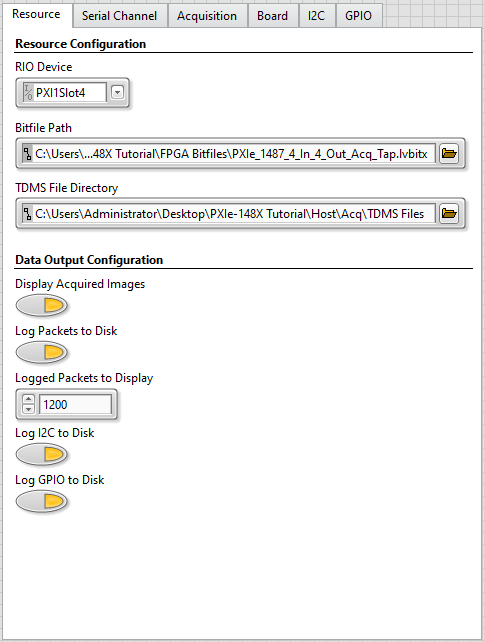
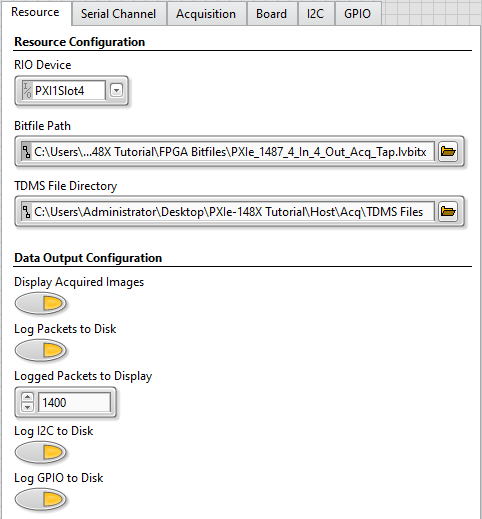
Add tap gse basic tutorial doc (#29)
* Fix type-o in help docs

* Re-order final two steps of tutorial and fix type-o

* Add new tap basic tutorial images

* Add new tap basic tutorial doc

* Add link to new tap basic tutorial doc

* Add blank line before section headings

* Update images for tap basic tutorial to match settings and new defaults

* Final tap basic tutorial updates after self review

* Update gse-tap-basic.md

Update wording based on PR feedback.

Changed region(s): [[0.0, 0.0, 1.0, 1.0]]

diff --git a/docs/tutorials/gettingstartedexample/gse-tap-basic.md b/docs/tutorials/gettingstartedexample/gse-tap-basic.md
@@ -1,0 +1,231 @@
+# PXIe-148X Getting Started Example - Basic Tap Tutorial
+{: .no_toc }
+
+This tutorial will teach you the steps needed to configure a tap acquisition using two PXIe-148X modules with a Leopard Imaging IMX490 camera and familiarize you with the basic functionality provided by the Tap Getting Started Example. A tap acquisition is defined as an acquisition with a CSI-2 sensor where data is forwarded from a serial input channel to a paired serial output channel while also logging acquired data and timestamps to disk. In addition, the Tap Getting Started Example bridges the I2C communication between the paired serial input and serial output channels. 
+
+> Note: This document references the example included with the NI-FlexRIO 23Q1 driver. Examples included in newer releases of the driver should be applicable.
+
+### Table of contents
+{: .no_toc }
+
+1. TOC
+{:toc}
+
+---
+
+## Prerequisites
+
+Review and complete all setup from the [PXIe-1486 Getting Started Guide](https://www.ni.com/docs/en-US/bundle/pxie-1486-getting-started/) or [PXIe-1487 Getting Started Guide](https://www.ni.com/docs/en-US/bundle/pxie-1487-getting-started/).
+
+Basic knowledge of LabVIEW and LabVIEW FPGA concepts. 
+
+A camera supported by the getting started example configuration scripts (i.e. Leopard Imaging IMX490).
+
+A supported interface module that includes both serial input and serial output channels (tap module) and a second supported interface module that includes serial input channels (acq module) on a PXI system running Windows.
+
+| **Interface Module**   | **Camera**                                                                                                                                                 |
+|------------------------|------------------------------------------------------------------------------------------------------------------------------------------------------------|
+| PXIe-1486 (8 In - 954 Deserializer)         | [LI-IMX490-FPDLINKIII](https://www.leopardimaging.com/product-category/autonomous-camera/ti-fpdlinkiii-cameras/li-imx490-fpdlinkiii/) |
+| PXIe-1486 (4 In 4 Out - 953/954 SerDes)     | [LI-IMX490-FPDLINKIII](https://www.leopardimaging.com/product-category/autonomous-camera/ti-fpdlinkiii-cameras/li-imx490-fpdlinkiii/) |
+| PXIe-1487 (8 I - 9296A Deserializer)        | [LI-IMX490-GMSL2](https://www.leopardimaging.com/product-category/autonomous-camera/maxim-gmsl2-cameras/li-imx490-gmsl2/)             |
+| PXIe-1487 (4 In 4 Out - 9295A/9296A SerDes) | [LI-IMX490-GMSL2](https://www.leopardimaging.com/product-category/autonomous-camera/maxim-gmsl2-cameras/li-imx490-gmsl2/)             |
+
+> Note: The tap and acq modules used in this tutorial must have matching model numbers (i.e. 1486).
+
+## Initial Hardware Setup
+
+1.  First complete installation of hardware as described in the Getting Started Guide linked above.
+2.  Connect the camera to serial input channel 0 (SI0) on the tap module with a FAKRA cable.
+3.  Connect serial output channel (SO0) on the tap module to serial input channel (SI0) on the acq module with a FAKRA cable.
+4.  Connect the SI0 pin to the SO0 pin on the AUX POWER connector on the front panel of the tap module.
+
+## Initial Software Setup
+
+1.  First complete installation of software specified in the Getting Started Guide linked above.
+2.  Use the NI Example Finder to create a default project for your specific tap module.
+    - Open LabVIEW and click **Help -> Find Examples...**
+    
+    ![Open NI Example Finder](../../images/LabVIEW-Help-FindExamples.png)
+    
+    - In the NI Example Finder dialog, double-click **Hardware Input and Output -> FlexRIO -> Integrated IO -> Getting Started -> Getting Started FlexRIO Integrated IO.vi**
+    
+    ![NI Example Finder](../../images/NIExampleFinder-GSEFlexRIOWithIntegratedIO.png)
+
+    - In the FlexRIO with Integrated IO Project Creator dialog set the **Project Name** to <font face = "courier new">PXIe-148X Tutorial</font> and make the **FlexRIO Integrated IO** selection for the desired PXIe-148X interface module then click **OK**.
+    
+    ![FlexRIO with Integrated IO Project Creator](../../images/FlexRIOWithIntegratedIOProjectCreator-PXIe-148XTutorial.png)
+
+3.  Double click the Tap Example VI in the LabVIEW project.
+
+    ![Open Tap Example VI](../../images/PXIe-148X-TapGSE-Project.png)
+
+    > The opened front panel of the Getting Started Example is similar to the figure below.
+
+    ![Tap GSE Front Panel](../../images/PXIe-148X-TapGSE-FrontPanel.png)
+
+4. Open an Acquisition Example VI (see [Basic Acquisition Tutorials - Initial Software Setup](./gse-acq-basic.md#initial-software-setup)).
+    > Note: If the acq module is the same module type as the tap module, there is no need to create a new project. If the acq module is not the same module type as the tap module, a new project needs to be created for the acq module in order for the acq module FPGA bitfiles to be included in the project.
+
+## Performing a Simple Continuous Tap Acquisition
+
+> Note: For the purposes of this tutorial, all steps reference the Tap Example VI unless otherwise specified and all input control values not specified should be left as the default value.
+
+1.  Select the **Resource** tab and make the following modifications.
+    - Select the **RIO Device** from the dropdown menu that corresponds to your tap module.
+    - Set the **Bitfile Path** to the bitfile that corresponds to your tap module. The default shipping bitfile is in the 'FPGA Bitfiles' subfolder located in the project folder (created at the Project Root location specified in Project Creator):
+
+    | **Interface Module**   | **Bitfile**                                          |
+    |------------------------|------------------------------------------------------|
+    | PXIe-1486 (4 In 4 Out) | FPGA Bitfiles\\PXIe_1486_4\_In_4\_Out_Acq_Tap.lvbitx |
+    | PXIe-1487 (4 In 4 Out) | FPGA Bitfiles\\PXIe_1487_4\_In_4\_Out_Acq_Tap.lvbitx |
+
+    > The values on the **Resource** tab of **Configuration Settings** are now similar to the figure below.
+
+    ![Configuration Settings Resource Tab](../../images/PXIe-148X-AcqGSE-ResourceTab-BasicContinuous.png)
+
+2.  Select the **Serial Channel** tab and make the following modifications.
+    - Select the **Deserializer (Input) Configuration Script** and **Serializer (Output) Configuration Script** that correspond to your interface module. The tap scripts are used to configure the deserializer and the serializer on the interface module to establish the I2C communication bridge between input and output channel pairs. See the [PXIe-148X Configuration Scripts User Guide](../../reference/gettingstartedexample/config-scripts-user-guide.md) for more details. The configuration scripts required for this tutorial are in the project folder under the subfolder 'Host\\Scripts':
+
+        | **Interface Module**                         | **Deserializer (Input) Configuration Script**         |
+        |----------------------------------------------|-------------------------------------------------------|
+        | PXIe-1486 (4 In 4 Out - 953/954 SerDes)      | Host\\Scripts\\DS90UB954\\Tap\\Des_Tap.py             |
+        | PXIe-1487 (4 In 4 Out - 9295A/9296A SerDes)  | Host\\Scripts\\MAX9296A\\Tap\\RAW12_ID01_Des_Tap.cpp  |
+        | PXIe-1487 (4 In 4 Out - 96717/96716A SerDes) | Host\\Scripts\\MAX96716A\\Tap\\RAW12_ID12_Des_Tap.cpp |
+        | PXIe-1488 (4 In 4 Out - 971/9702 SerDes)     | Host\\Scripts\\DS90UB9702\\Tap\\Des_Tap.py            |
+
+        | **Interface Module**                         | **Serializer (Output) Configuration Script**        |
+        |----------------------------------------------|-----------------------------------------------------|
+        | PXIe-1486 (4 In 4 Out - 953/954 SerDes)      | Host\\Scripts\\DS90UB953\\Tap\\Ser_Tap.py           |
+        | PXIe-1487 (4 In 4 Out - 9295A/9296A SerDes)  | Host\\Scripts\\MAX9295A\\Tap\\RAW12_ID1_Ser_Tap.cpp |
+        | PXIe-1487 (4 In 4 Out - 96717/96716A SerDes) | Host\\Scripts\\MAX96717\\Tap\\RAW12_ID2_Ser_Tap.cpp |
+        | PXIe-1488 (4 In 4 Out - 971/9702 SerDes)     | Host\\Scripts\\DS90UB971\\Tap\\Ser_Tap.py           |
+
+    > The values on the **Serial Channel** tab of **Configuration Settings** are now similar to the figure below.
+
+    ![Configuration Settings Serial Channel Tab](../../images/PXIe-148X-TapGSE-SerialChannelTab-BasicContinuous.png)
+
+3.  Select the **Board** tab and make the following modifications.
+    - In the **Power Over Coax Source** drop down menu, select **Auxiliary** to power the attached camera from the AUX POWER connector.
+    - In the **Power Over Coax Sink** drop down menu, select **Auxiliary** to route received power over coax to the AUX POWER connector.
+
+    > The values on the **Board** tab of **Configuration Settings** are now similar to the figure below.
+
+    ![Configuration Settings Board Tab](../../images/PXIe-148X-TapGSE-BoardTab-BasicContinuous.png)
+
+4.  Run the VI to setup the tap configuration. 
+
+    The Tap example loads the bitfile and applies the configuration settings, including execution of the deserializer and serializer configuration scripts. The **Waiting for Sensor Setup** indicator illuminates to indicate the configuration scripts have completed and the I2C communication bridge is established between serial input and serial output channel pairs.
+
+5.  Click the **Sensor Setup Complete** control button to start a continuous tap acquisition. 
+    
+    The **Acquisition In Progress** indicator illuminates to indicate that the tap acquisition is running, but no data is received at this point since the camera configuration is performed from the Acquisition Example VI.
+
+6. On the Acquisition Example VI, run the [Performing a Simple Continuous Acquisition](./gse-acq-basic.md#performing-a-simple-continuous-acquisition) tutorial using the acq module, but do not run the final step that stops the acquisition.
+
+7.  Update the **Red Gain**, **Green Gain**, and **Blue Gain** display parameters on the **Serial Channel** tab -> **Channel Configurations** control to match any changes that were made on the Acquisition Example VI.
+
+    ![Channel Configurations Control](../../images/PXIe-148X-AcqGSE-ChannelConfig-BasicContinuous.png)
+
+    > Note: Changes made to the **RAW Display Parameters** will take effect while the VI is running.
+
+8.  While the Tap Example and Acquisition Example VIs are running, select the **First Display Channel** tab on the Tap Example and on the Acquisition Example and verify that images from the camera are displayed on these tabs. The images should look identical.
+
+    ![Compare First Display Channel Tabs](../../images/PXIe-148x-Tap-Acq-display-compare.png)
+
+9.  Click the **Stop Acquisition** button on both Example VIs to stop the tap acquisition and stop the VIs.
+
+## Performing a Finite Tap Acquisition with Data Logging
+
+> Note: The Finite Tap Acquisition with Data Logging tutorial assumes that all input parameters are still configured as specified in the Simple Continuous Tap Acquisition tutorial for both the Tap and Acquisition Example VIs. All steps reference the Tap Example VI unless otherwise specified
+
+1.  Select the **Resource** tab and make the following modifications.
+    - Enable **Log Packets to Disk**.
+    - Enable **Log I2C to Disk**.
+    - Enable **Log GPIO to Disk**.
+
+    > Note: During the first run of the VI in the Simple Continuous Tap Acquisition tutorial, the **TDMS File Directory** control was automatically populated with a value pointing to a subfolder (\"TDMS Files\"). This subfolder was automatically created within the project folder to store any generated TDMS files.
+
+    > The values on the **Resource** tab of **Configuration Settings** are now similar to the figure below.
+    
+    ![Configuration Settings Resource Tab Log to Disk](../../images/PXIe-148X-Tap-ResourceTab-LogToDisk.png)
+
+2.  Select the **Acquisition** tab and disable **Continuous Acquisition**.
+
+    > The values on the **Acquisition** tab of **Configuration Settings** are now similar to the figure below.
+
+    ![Configuration Settings Acquisition Tab Finite](../../images/PXIe-148X-Acq-AquisitionTab-FiniteAcq.png)
+
+3.  Select the **I2C** tab and add **User24** to the **timestamp filter** array to enable I2C timestamp logging on the SI0 channel.
+
+    > The values on the **I2C** tab of **Configuration Settings** are now similar to the figure below.
+
+    ![Configuration Settings I2C Tab with User24](../../images/PXIe-148X-Acq-I2CTab-FiniteAcq.png)
+
+4.  Select the **GPIO** tab and make the following modifications.
+    - Add a GPIO line to the **GPIO to Display** array with the GPIO Bank value set to **Des0 GPIO** and the GPIO Number set to <font face = "courier new">0</font>. Setting these values enables display of GPIO traffic for the GPIO 0 line on the SI0 channel connected to the camera.
+
+    > The values on the **GPIO** tab of **Configuration Settings** are now similar to the figure below.
+
+    ![Configuration Settings GPIO Tab with Des0 GPIO0](../../images/PXIe-148X-Acq-GPIOTab-DisplayDes0GPIO0.png)
+
+5.  Run the VI to setup the tap configuration and wait for the **Waiting for Sensor Setup** indicator to illuminate.
+6.  Run the Acquisition Example VI and wait for the **Acquisition In Progress** indicator to illuminate on the Acquisition Example VI.
+
+7.  Click the **Sensor Setup Complete** control button to start the tap acquisition and wait for the acquisition to complete. The default acquisition duration of 1 second is run and results are displayed on the various tabs in the **Data Output** indicator.
+
+    > Packet Data is displayed in the **First Serial Channel Packets** tab.
+    - The **Bytes Acquired (1st Channel)** indicator updates as the acquisition is occurring.
+    - The **Packets Logged (1st Channel)** indicator updates after acquisition completes.
+    > See [PXIe-148X Tap GSE Help](../../reference/gettingstartedexample/gse-tap-help.md#table-of-descriptions-for-acquired-packets-columns) for **Acquired Packets (1st Channel)** column details.
+
+    ![First Serial Channel Packets Tab](../../images/PXIe-148X-Acq-FirstSerialChannelPackets-FiniteAcq.png)
+
+    > I2C timestamp data is displayed in the **I2C Timestamps** tab.
+
+    ![I2C Timestamps Tab](../../images/PXIe-148X-Acq-I2CTimestamps-FiniteAcq.png)
+
+8.  GPIO timestamp data is plotted in the **GPIO Timestamps** tab.
+
+    ![GPIO Timestamps](../../images/PXIe-148X-Acq-GPIOTimestamps-FiniteAcq.png)
+
+    > Note: The camera does not toggle GPIOs by default. The change shown in the figure above reflects GPIO level reset when the example VI is first run.
+
+## Reviewing Previously Logged Data
+
+> Note: The Reviewing Previously Logged Data tutorial assumes that the previous tutorials in this document were completed first.
+
+TDMS files containing acquired data from the camera were saved to the \"TDMS Files\" subfolder in the previous tutorial. The GPIO timestamps, user timestamps, and data acquired from the camera are stored in individual TDMS files. You can use the file viewer utility to review the acquired packet data.
+
+![TDMS Files](../../images/PXIe-148X-Acq-TDMSFileList.png)
+
+1.  Double click the TDMS File Viewer VI in the LabVIEW project.
+  
+    ![Open TDMS File Viewer VI](../../images/PXIe-148X-GSE-TDMSFileViewer.png)
+
+    > The opened front panel of the File Viewer will be similar to the figure below.
+
+    ![TDMS File Viewer VI Front Panel](../../images/PXIe-148X-GSE-TDMSFileViewer-FrontPanel.png)
+
+2.  Select the correct location for the **TDMS File Directory** control. By default, TDMS files in the previous tutorial were saved to `<yourprojectdir>\Host\Tap\TDMS Files`.
+
+    > Note: The directory browse window will not show the TDMS files located in the "TDMS Files" directory.
+
+3.  Run the VI to load the TDMS file and view the packet data.
+
+    ![TDMS File Viewer VI Front Panel With Data](../../images/PXIe-148X-GSE-TDMSFileViewer-FrontPanelWithData.png)
+
+    > Note: The **Update TDMS File Packet Offset Data** control is enabled by default. Enabling this option results in re-saving a TDMS file with additional packet indexing information the first time the TDMS file is loaded. This indexing information can reduce the future load time of the file, particularly when reading only a subset of the packet data.
+
+4. (Optional) Update the **Packet Display Start Index** and **Packets to Display** controls to review a specific packet range of interest from the TDMS file and rerun the VI. 
+    > Using an LI-IMX490-GMSL2 camera with a vertical resolution of 1280, each frame contains a Frame Start packet followed by 1280 RAW 12 packets and a Frame End packet. To display 10 frames of data starting at the second frame, set **Packet Display Start Index** to <font face = "courier new">1282</font> and **Packets to Display** to <font face = "courier new">12820</font>.
+
+    > Note: Setting **Packets to Display** to <font face = "courier new">-1</font> displays packets from **Packet Display Start Index** to the end of the file.
+
+## Related Documents
+- [PXIe-148X Getting Started Example - Common Tap Tutorials](./gse-tap-common.md)
+- [PXIe-148X Getting Started Example - Tap Help](../../reference/gettingstartedexample/gse-tap-help.md)
+- [PXIe-148X Getting Started Example - Basic Acquisition Tutorial](./gse-acq-basic.md)
+- [PXIe-148X Getting Started Example - Basic Generation Tutorial](./gse-gen-basic.md)
+
+
+    

diff --git a/docs/tutorials/gettingstartedexample/gse-acq-basic.md b/docs/tutorials/gettingstartedexample/gse-acq-basic.md
@@ -98,12 +98,13 @@ A supported interface module and camera on a PXI system running Windows.
 
     ![First Display Channel Tab](../../images/PXIe-148X-AcqGSE-FirstDisplayChannel-BasicContinuous.png)
 
-6.  Click the **Stop Acquisition** button to stop the acquisition and stop the VI.
-7.  (Optional) Update the **Red Gain**, **Green Gain**, and **Blue Gain** display parameters on the **Serial Channel** tab -> **Channel Configurations** control to better match the acquired image to the actual color of the object.
+6.  (Optional) Update the **Red Gain**, **Green Gain**, and **Blue Gain** display parameters on the **Serial Channel** tab -> **Channel Configurations** control to better match the acquired image to the actual color of the object.
 
     ![Channel Configurations Control](../../images/PXIe-148X-AcqGSE-ChannelConfig-BasicContinuous.png)
 
     > Note: Changes made to the **RAW Display Parameters** will take effect while the VI is running.
+
+7.  Click the **Stop Acquisition** button to stop the acquisition and stop the VI.
 
 ## Performing a Finite Acquisition with Data Logging
 
@@ -160,7 +161,7 @@ A supported interface module and camera on a PXI system running Windows.
 
 ## Reviewing Previously Logged Data
 
-> Note: The Review Previously Logged Data tutorial assumes that the previous tutorials in this document were completed first.
+> Note: The Reviewing Previously Logged Data tutorial assumes that the previous tutorials in this document were completed first.
 
 TDMS files containing acquired data from the camera were saved to the \"TDMS Files\" subfolder in the previous tutorial. The GPIO timestamps, user timestamps, and data acquired from the camera are stored in individual TDMS files. You can use the file viewer utility to review the acquired packet data.
 

diff --git a/docs/reference/gettingstartedexample/gse-gen-help.md b/docs/reference/gettingstartedexample/gse-gen-help.md
@@ -97,7 +97,7 @@ Refer to this document to understand the elements of the getting started example
   |-----------|---------------------------------------------------------------------|
   | None      | No power over coax provided.                                        |
   | Internal  | Use internal power source to provide power over coax.               |
-  | Auxiliary | User power from the AUX POWER connector to provide power over coax. |
+  | Auxiliary | Use power from the AUX POWER connector to provide power over coax.  |
 
 - **Reference Clock Frequency (Hz)** - The frequency of the reference clock provided to the reference clock input of the SerDes. GMSL SerDes do not support changing this value from the default of 25 MHz. However for FPD-Link SerDes, in certain modes of operation, you may need to adjust this value and should consult the specifications for your SerDes for more information about supported reference clock frequencies and clocking modes.
 

diff --git a/docs/reference/gettingstartedexample/gse-acq-help.md b/docs/reference/gettingstartedexample/gse-acq-help.md
@@ -117,7 +117,7 @@ Refer to this document to understand the elements of the getting started example
   |-----------|---------------------------------------------------------------------|
   | None      | No power over coax provided.                                        |
   | Internal  | Use internal power source to provide power over coax.               |
-  | Auxiliary | User power from the AUX POWER connector to provide power over coax. |
+  | Auxiliary | Use power from the AUX POWER connector to provide power over coax.  |
 
 - **Reference Clock Frequency (Hz)** - The frequency of the reference clock provided to the reference clock input of the SerDes. GMSL SerDes do not support changing this from the default value of 25 MHz. However for FPD-Link SerDes, in certain modes of operation, you may need to adjust this value and should consult the datasheet of your SerDes for more information about supported reference clock frequencies and clocking modes.
 

diff --git a/docs/index.md b/docs/index.md
@@ -8,10 +8,14 @@ Additional documentation for NI's automotive camera modules can be found at [ni.
 ### Acquisition
 - [PXIe-148X Getting Started Example - Basic Acquisition Tutorial](tutorials/gettingstartedexample/gse-acq-basic.md)
 - [PXIe-148X Getting Started Example - Common Acquisition Tutorials](tutorials/gettingstartedexample/gse-acq-common.md)
+
 ### Generation
 - [PXIe-148X Getting Started Example - Basic Generation Tutorial](tutorials/gettingstartedexample/gse-gen-basic.md)
 - [PXIe-148X Getting Started Example - Common Generation Tutorials](tutorials/gettingstartedexample/gse-gen-common.md)
 - [PXIe-148X Tutorial - Create CSI-2 Packet TDMS Files](tutorials/gettingstartedexample/gse-create-tdms.md)
+
+### Tap
+- [PXIe-148X Getting Started Example - Basic Tap Tutorial](tutorials/gettingstartedexample/gse-tap-basic.md)
 
 ---
 

diff --git a/docs/reference/gettingstartedexample/gse-tap-help.md b/docs/reference/gettingstartedexample/gse-tap-help.md
@@ -128,7 +128,7 @@ Refer to this document to understand the elements of the getting started example
   |-----------|---------------------------------------------------------------------|
   | None      | No power over coax provided.                                        |
   | Internal  | Use internal power source to provide power over coax.               |
-  | Auxiliary | User power from the AUX POWER connector to provide power over coax. |
+  | Auxiliary | Use power from the AUX POWER connector to provide power over coax.  |
 
 - **Power Over Coax Sink** - The destination used to receive power over coax on active serial output channels.
 
